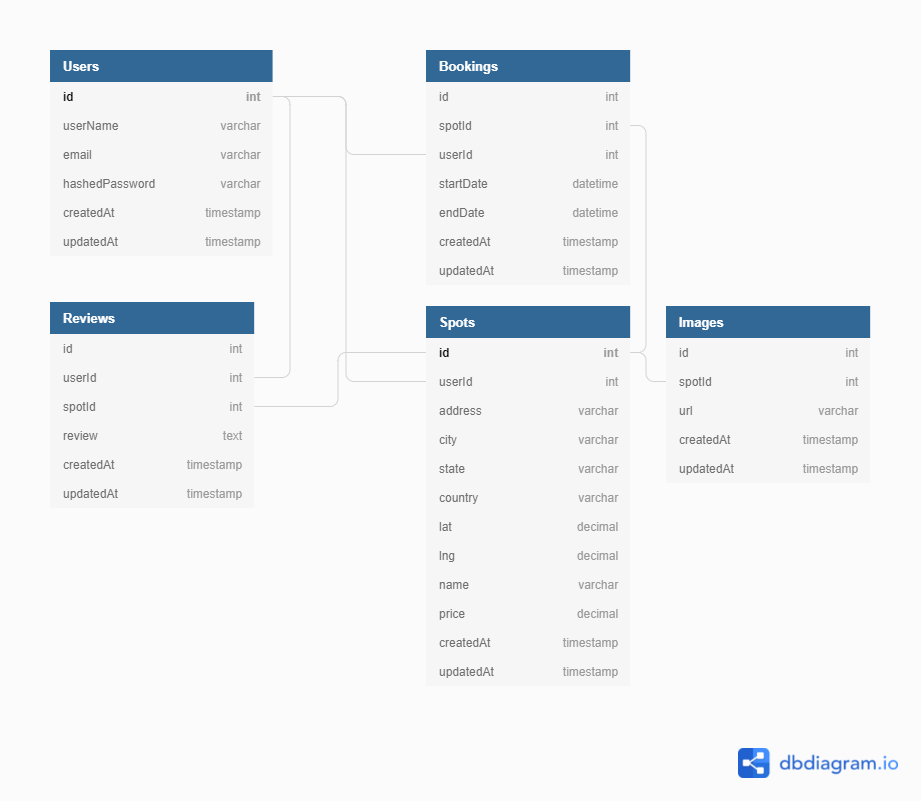
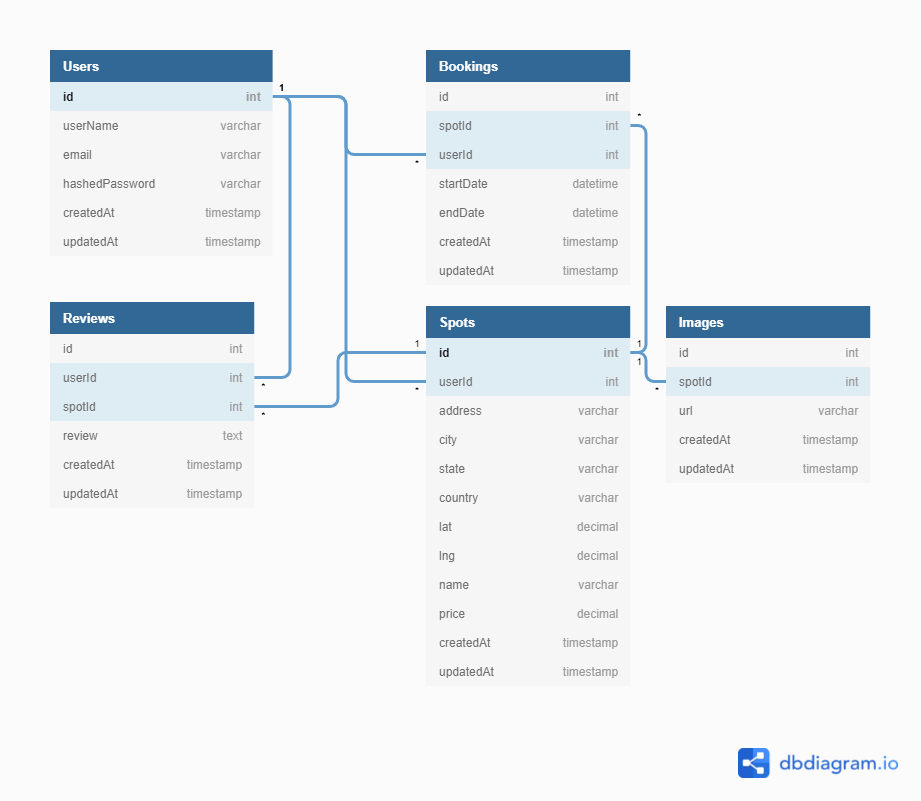
Backend route for GET Spots works, frontend WIP

diff --git a/backend/db/seeders/20210915174605-demo-spot.js b/backend/db/seeders/20210915174605-demo-spot.js
@@ -1,0 +1,35 @@
+'use strict';
+
+module.exports = {
+  up: async (queryInterface, Sequelize) => {
+    return queryInterface.bulkInsert('Spots', [
+      {
+        userId: 2,
+        address: '70 Road North',
+        city: 'Orondo',
+        state: 'Washington',
+        country: 'United States',
+        lat: '47.814607',
+        lng: '-119.923947',
+        name: 'Bag End',
+        price: '400.00'
+      },
+      {
+        userId: 3,
+        address: 'South Fjallabak Road',
+        city: 'Hvolsvöllur',
+        state: 'Höfuðborgarsvæðið',
+        country: 'Iceland',
+        lat: '63.7994869',
+        lng: '-18.9383698',
+        name: 'Barad-dûr',
+        price: '1000000.00'
+      },
+    ], {});
+  },
+
+  down: async (queryInterface, Sequelize) => {
+    const Op = Sequelize.Op;
+    return queryInterface.bulkDelete('Spots', null, { truncate: true, cascade: true });
+  }
+};

diff --git a/backend/db/seeders/20210913195455-demo-user.js b/backend/db/seeders/20210913195455-demo-user.js
@@ -11,6 +11,16 @@ module.exports = {
         hashedPassword: bcrypt.hashSync('password'),
       },
       {
+        email: 'BBaggins@theshire.com',
+        userName: 'BilboBaggins',
+        hashedPassword: bcrypt.hashSync('adventure'),
+      },
+      {
+        email: 'Sauron@mordor.net',
+        userName: 'Sauron',
+        hashedPassword: bcrypt.hashSync('aaAA11!!'),
+      },
+      {
         email: faker.internet.email(),
         userName: 'FakeUser1',
         hashedPassword: bcrypt.hashSync(faker.internet.password()),
@@ -26,7 +36,7 @@ module.exports = {
   down: (queryInterface, Sequelize) => {
     const Op = Sequelize.Op;
     return queryInterface.bulkDelete('Users', {
-      userName: { [Op.in]: ['Demo-lition', 'FakeUser1', 'FakeUser2'] }
+      userName: { [Op.in]: ['Demo-lition', 'BilboBaggins', 'Sauron', 'FakeUser1', 'FakeUser2'] }
     }, {});
   }
 };

diff --git a/frontend/src/store/spots.js b/frontend/src/store/spots.js
@@ -1,0 +1,38 @@
+const LOAD_SPOTS = 'spots/load_spots';
+
+const load = list => ({
+  type: LOAD_SPOTS,
+  list,
+});
+
+export const getSpots = () => async dispatch => {
+  const response = await fetch(`/api/spots`);
+  if (response.ok) {
+    const list = await response.json();
+    dispatch(load(list));
+  }
+};
+
+
+const initialState = [];
+
+const spotsReducer = (state = initialState, action) => {
+  // let newState;
+  switch (action.type) {
+    case LOAD_SPOTS: {
+      const allSpots = {};
+      action.list.forEach(spot => {
+        allSpots[spot.id] = spot;
+      });
+      return {
+        ...allSpots,
+        ...state,
+        [action.list]: action.list
+      };
+    }
+    default:
+      return state;
+  }
+};
+
+export default spotsReducer;

diff --git a/backend/routes/api/spots.js b/backend/routes/api/spots.js
@@ -1,0 +1,24 @@
+const express = require('express')
+const router = express.Router();
+const asyncHandler = require('express-async-handler');
+const { Spot } = require("../../db/models");
+
+// Add back for validations if I get to create/delete/edit spots
+// const { User } = require('../../db/models');
+// const { check } = require('express-validator');
+// const { handleValidationErrors } = require('../../utils/validation');
+
+
+/* GET Spots */
+router.get('/', asyncHandler(async (req, res) => {
+
+  const spots = await Spot.findAll({
+    // order: [['createdAt', 'DESC']],
+    // include: [User],
+    limit: 15
+  });
+
+  return res.json(spots)
+}));
+
+module.exports = router;

diff --git a/frontend/src/App.js b/frontend/src/App.js
@@ -4,6 +4,7 @@ import { Route, Switch } from "react-router-dom";
 import SignupFormPage from "./components/SignupFormPage";
 import * as sessionActions from "./store/session";
 import Navigation from "./components/Navigation";
+import SpotsPage from "./components/SpotsPage";
 
 function App() {
   const dispatch = useDispatch();
@@ -19,6 +20,9 @@ function App() {
         <Switch>
           <Route path="/signup">
             <SignupFormPage />
+          </Route>
+          <Route path="/spots">
+            <SpotsPage />
           </Route>
         </Switch>
       )}

diff --git a/frontend/src/components/SpotsPage/index.js b/frontend/src/components/SpotsPage/index.js
@@ -1,0 +1,26 @@
+import React, { useEffect, useState } from "react";
+import { useDispatch, useSelector } from "react-redux";
+import { getSpots } from "../../store/spots"
+
+import './SpotsPage.css'
+
+const SpotsPage = () => {
+  const dispatch = useDispatch();
+
+  // const spot = useSelector(state => {
+  //   return state.spots.list.map(spotId => state.spot[spotId]);
+  // });
+
+  useEffect(() => {
+    dispatch(getSpots());
+  },[dispatch]);
+
+  console.log()
+  return (
+    <div id="spots-body">
+
+    </div>
+  );
+}
+
+export default SpotsPage;

diff --git a/backend/db/models/spot.js b/backend/db/models/spot.js
@@ -11,6 +11,10 @@ module.exports = (sequelize, DataTypes) => {
      */
     static associate(models) {
       // define association here
+      Spot.belongsTo(models.User, { foreignKey: 'userId' });
+      Spot.hasMany(models.Booking, { foreignKey: 'spotId', onDelete: 'CASCADE', hooks: true });
+      Spot.hasMany(models.Image, { foreignKey: 'spotId', onDelete: 'CASCADE', hooks: true });
+      Spot.hasMany(models.Review, { foreignKey: 'spotId', onDelete: 'CASCADE', hooks: true });
     }
   };
   Spot.init({

diff --git a/backend/db/models/user.js b/backend/db/models/user.js
@@ -48,6 +48,9 @@ module.exports = (sequelize, DataTypes) => {
   });
   User.associate = function(models) {
     // associations can be defined here
+    User.hasMany(models.Booking, { foreignKey: 'userId', onDelete: 'CASCADE', hooks: true });
+    User.hasMany(models.Review, { foreignKey: 'userId' });
+    User.hasMany(models.Spot, { foreignKey: 'userId' });
   };
 
   User.prototype.toSafeObject = function() { // remember, this cannot be an arrow function

diff --git a/backend/routes/api/index.js b/backend/routes/api/index.js
@@ -1,10 +1,13 @@
 const router = require('express').Router();
 const sessionRouter = require('./session.js');
 const usersRouter = require('./users.js');
+const spotsRouter = require('./spots.js');
 
 router.use('/session', sessionRouter);
 
 router.use('/users', usersRouter);
+
+router.use('/spots', spotsRouter);
 
 // router.post('/test', (req, res) => {
 //   res.json({ requestBody: req.body });

diff --git a/backend/db/migrations/20210915000506-create-spot.js b/backend/db/migrations/20210915000506-create-spot.js
@@ -47,11 +47,13 @@ module.exports = {
       },
       createdAt: {
         allowNull: false,
-        type: Sequelize.DATE
+        type: Sequelize.DATE,
+        defaultValue: Sequelize.fn('now'),
       },
       updatedAt: {
         allowNull: false,
-        type: Sequelize.DATE
+        type: Sequelize.DATE,
+        defaultValue: Sequelize.fn('now'),
       }
     });
   },

diff --git a/backend/db/models/booking.js b/backend/db/models/booking.js
@@ -11,6 +11,8 @@ module.exports = (sequelize, DataTypes) => {
      */
     static associate(models) {
       // define association here
+      Booking.belongsTo(models.User, { foreignKey: 'userId' });
+      Booking.belongsTo(models.Spot, { foreignKey: 'spotId' });
     }
   };
   Booking.init({

diff --git a/backend/db/models/review.js b/backend/db/models/review.js
@@ -11,6 +11,8 @@ module.exports = (sequelize, DataTypes) => {
      */
     static associate(models) {
       // define association here
+      Review.belongsTo(models.Spot, { foreignKey: 'spotId' });
+      Review.belongsTo(models.User, { foreignKey: 'userId' });
     }
   };
   Review.init({
